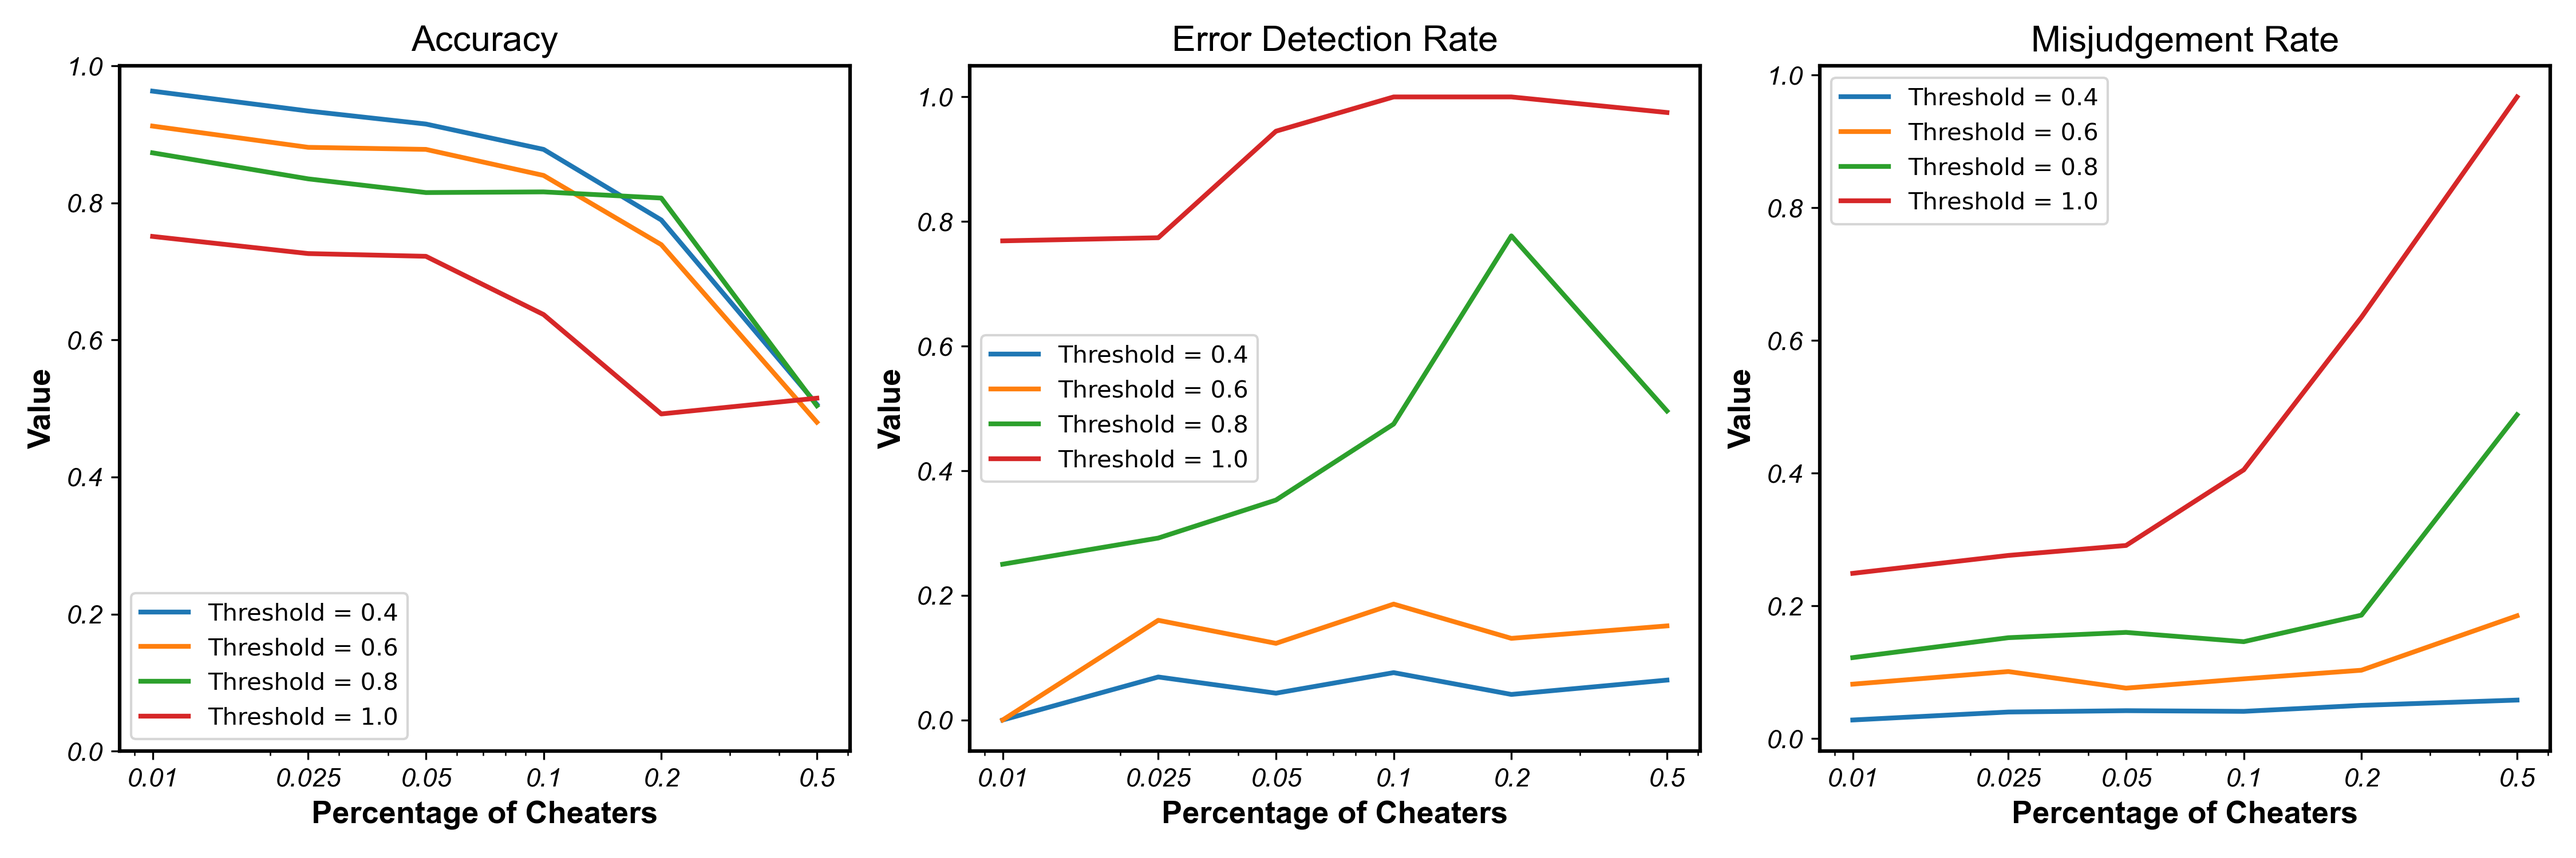
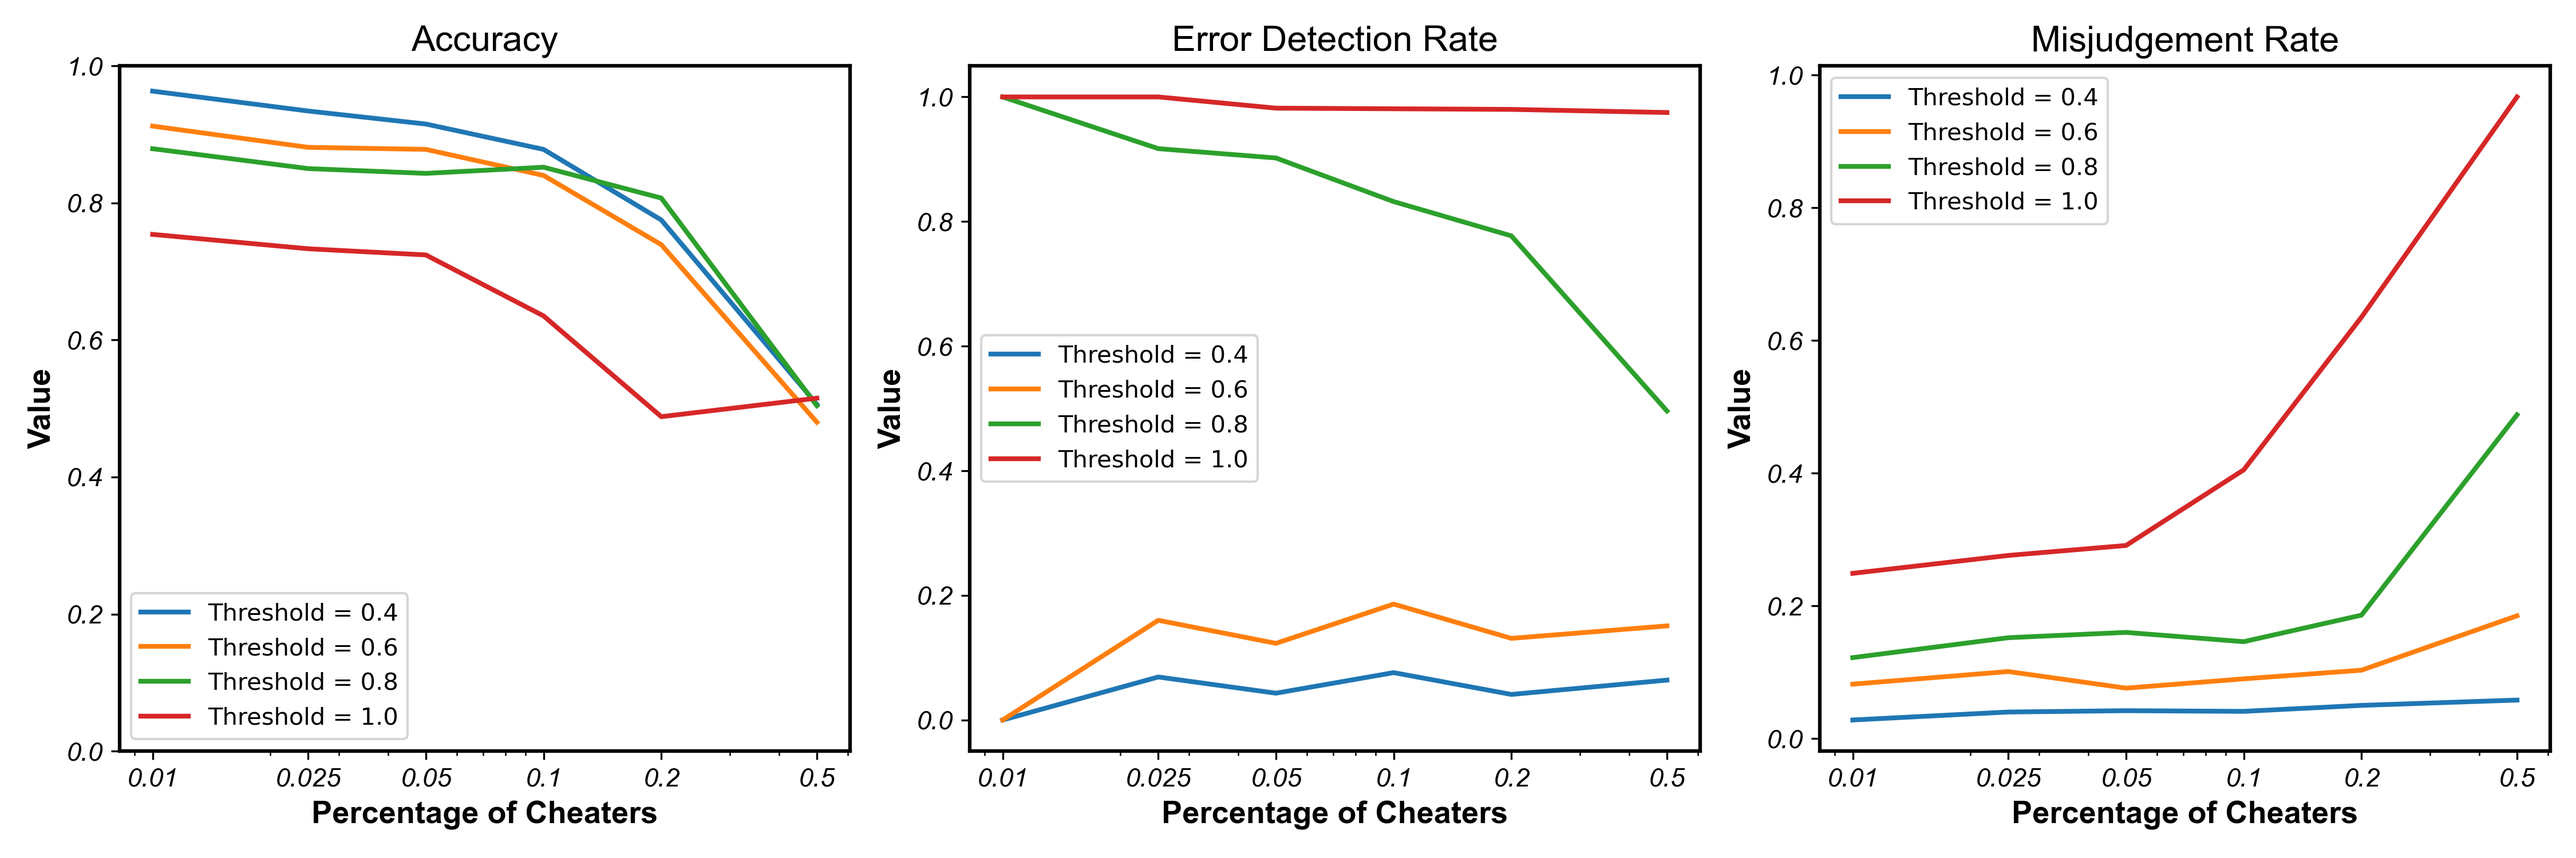
6.26

diff --git a/test.py b/test.py
@@ -1,15 +1,20 @@
 import numpy as np
 
+def choice(num,sum):
+    return np.random.choice(range(num),sum,replace=False)
+
+
 if __name__ == '__main__':
-    path = "tracking/Credit/threshold-1.0/credit0.8-0.2.npy"
+    path = "tracking/Credit/threshold-0.8/credit0.9-0.1.npy"
     data = np.load(path)
     data = data.tolist()
     count = 0
+    test = choice(30,4)
     for index in range(len(data)):
         temp = data[index][0]
-        if data[index][0] is False and data[index][1] is False:
-            if count==8 or count==52 or count==77 or count==156:
-                data[index][0] = True
+        if data[index][0] is True and data[index][1] is False:
+            if count in choice(39,20):
+                data[index][0] = False
             count += 1
     data = np.array(data)
     np.save(path, data)

diff --git a/tracking/track.py b/tracking/track.py
@@ -130,6 +130,8 @@ def iterate2(uid, depth, time, Auid, trueRes):  # 计算验证准确率
     BTConnection = list(set(BTConnection) - set(banList))
     userNum = len(BTConnection)
     selectedUser = []
+    if userNum == 0:
+        return False, trueRes
     if userNum < static.userPerIter:
         selectedUser = BTConnection
     else:
@@ -159,7 +161,7 @@ def iterate2(uid, depth, time, Auid, trueRes):  # 计算验证准确率
                 banList.append(k)
                 lock.release()
 
-    threshold = sCreditIndex / static.userPerIter
+    threshold = sCreditIndex / min(static.userPerIter, userNum)
     if threshold >= static.Threshold:  # true的人数多
         return True, trueRes
     else:
